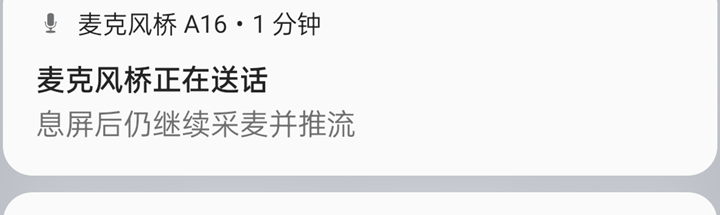
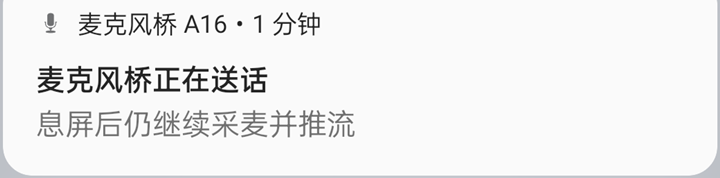
docs(evidence): 真机截图脱敏——状态栏第三方通知图标打码、通知卡片裁边

Changed region(s): [[0.0, 0.309, 1.0, 1.0], [0.0611, 0.0562, 0.4583, 0.1966]]

diff --git a/docs/real-device-tests/2026-11-03-realme-RMX3161-android12/README.md b/docs/real-device-tests/2026-11-03-realme-RMX3161-android12/README.md
@@ -153,10 +153,14 @@ session:66649 ... pack:com.zcstudy.micbridge.a16 ... silenced:false
 
 | 文件 | 内容 | 对应结论 |
 |---|---|---|
-| [`ui-main-0.6.3.png`](ui-main-0.6.3.png) | 0.6.3 主界面（采麦中 · USB，速率/峰值/心跳） | 界面正常、链路在推 |
-| [`ui-main-0.6.2.png`](ui-main-0.6.2.png) | 0.6.2 首次装机主界面 | 首装可运行 |
+| [`ui-main-0.6.3.png`](ui-main-0.6.3.png) | 0.6.3 主界面（采麦中 · USB，速率/峰值/心跳；状态栏第三方通知图标已打码） | 界面正常、链路在推 |
+| [`ui-main-0.6.2.png`](ui-main-0.6.2.png) | 0.6.2 首次装机主界面（状态栏第三方通知图标已打码） | 首装可运行 |
 | [`launcher-icon.png`](launcher-icon.png) | 桌面「桥」图标 + 名称（已裁剪） | 图标正常 |
-| [`fg-service-notification.png`](fg-service-notification.png) | 前台服务常驻通知（已裁剪） | 0.6.3 修复手段生效 |
+| [`fg-service-notification.png`](fg-service-notification.png) | 前台服务常驻通知（仅保留本条卡片） | 0.6.3 修复手段生效 |
+
+脱敏说明：两张主界面截图的状态栏只保留时间、系统状态图标与麦克风隐私指示点，
+第三方 App 的通知图标已用底色覆盖；`launcher-icon.png` 仅裁图标与名称；
+`fg-service-notification.png` 仅保留本条通知卡片，下方其它通知已裁掉。
 
 ## 8. 未验证 / 限制
 
